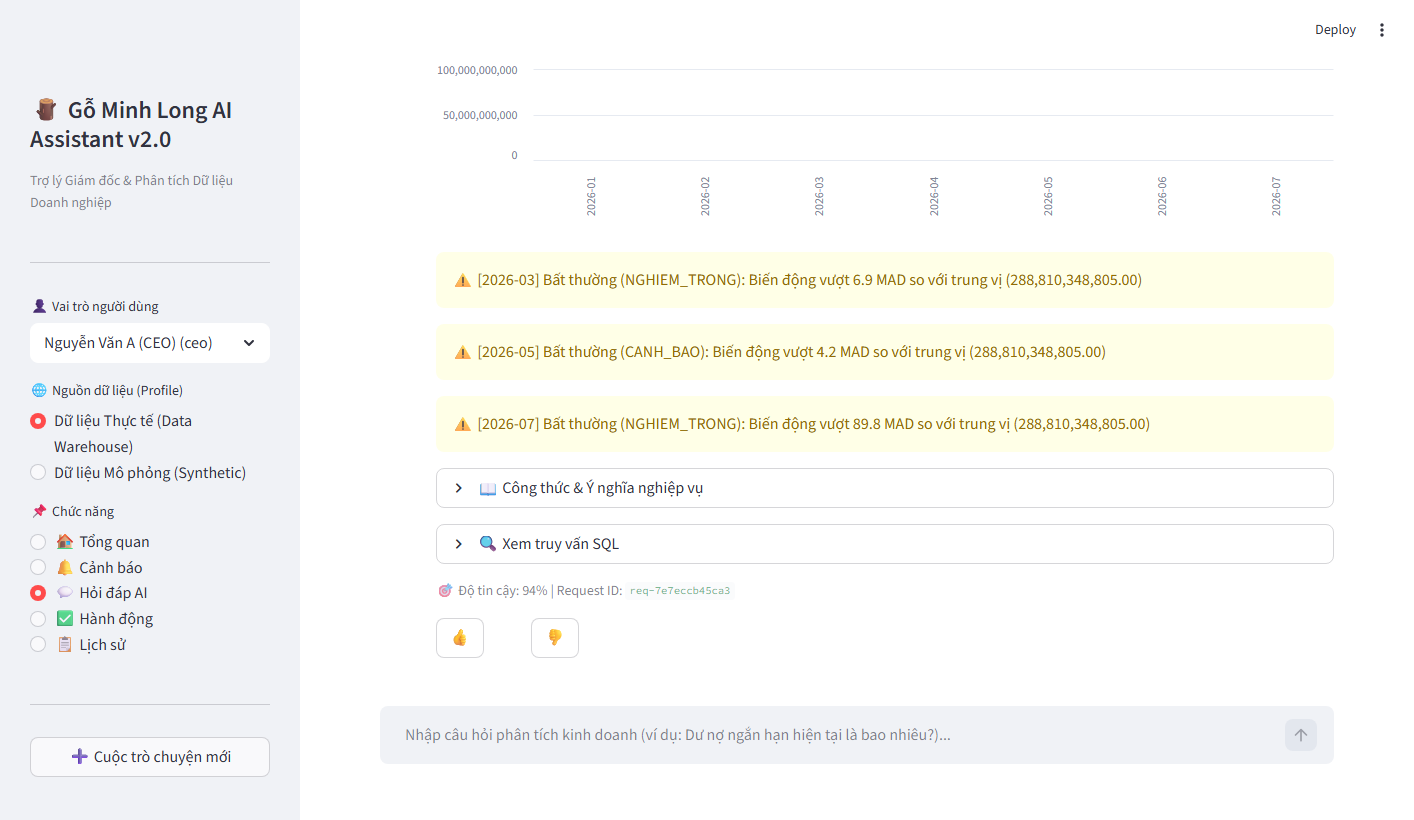
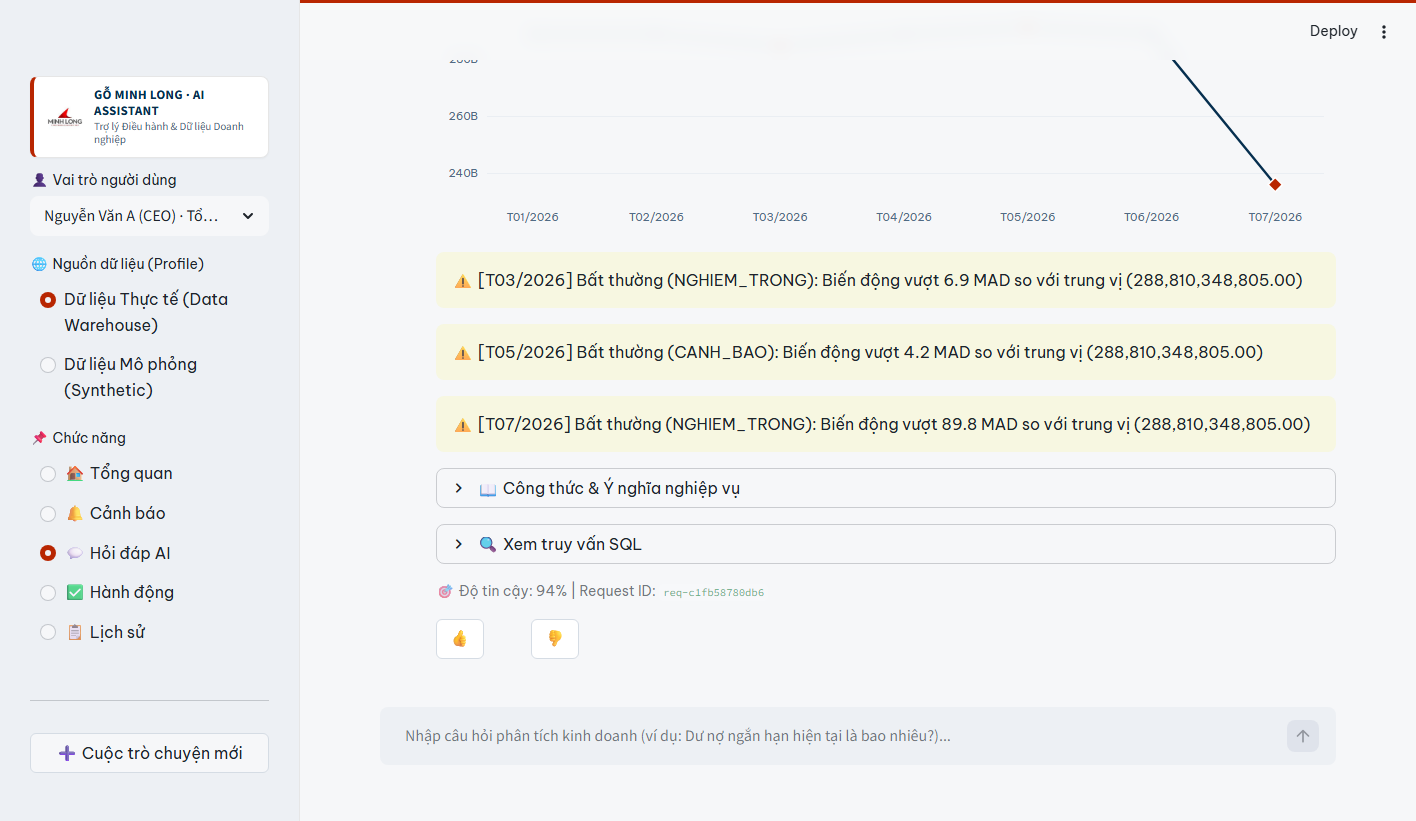
chore(v2-ux): refresh OpenAPI snapshot, EV-14/EV-16 screenshots, and full test pass

diff --git a/7. AI-Business-Assistant/v2/scripts/capture_ui_screenshots.py b/7. AI-Business-Assistant/v2/scripts/capture_ui_screenshots.py
@@ -484,7 +484,14 @@ def capture_screens() -> None:
             (
                 "05_overview.png",
                 f"http://127.0.0.1:{st_port}/?screen=overview&profile=synth",
-                ["DỮ LIỆU MÔ PHỎNG", "Chỉ số trọng yếu", "Phát hiện hôm nay", "Câu hỏi gợi ý"],
+                [
+                    "DỮ LIỆU MÔ PHỎNG",
+                    "Tổng hợp điều hành",
+                    "Chỉ số trọng yếu",
+                    "Xu hướng & Biến động theo kỳ",
+                    "Phát hiện hôm nay",
+                    "Câu hỏi gợi ý",
+                ],
                 None,
                 None,
             ),
@@ -493,7 +500,7 @@ def capture_screens() -> None:
                 f"http://127.0.0.1:{st_port}/?screen=alerts&profile=real",
                 ["Trung tâm Cảnh báo Nghiệp vụ", "[AL-001]", "[AL-002]"],
                 "[AL-002]",
-                ["[AL-002] Dư nợ ngắn hạn đạt đỉnh", "236.07 tỷ", "Diễn biến chuỗi thời gian"],
+                ["[AL-002] Dư nợ ngắn hạn đạt đỉnh", "236,07 tỷ", "Diễn biến chuỗi thời gian"],
             ),
             (
                 "07_actions.png",

diff --git a/7. AI-Business-Assistant/v2/app/ui/theme.py b/7. AI-Business-Assistant/v2/app/ui/theme.py
@@ -562,7 +562,7 @@ def build_trend_plotly(
             pass
 
     fig.update_layout(
-        title=dict(text=title, font=dict(size=13, color=ML_NAVY)) if title else None,
+        title=dict(text=title, font=dict(size=13, color=ML_NAVY)) if title else dict(text=""),
         paper_bgcolor="rgba(0,0,0,0)",
         plot_bgcolor="rgba(0,0,0,0)",
         font=dict(family="Be Vietnam Pro, Segoe UI, sans-serif", color=ML_TEXT, size=12),
